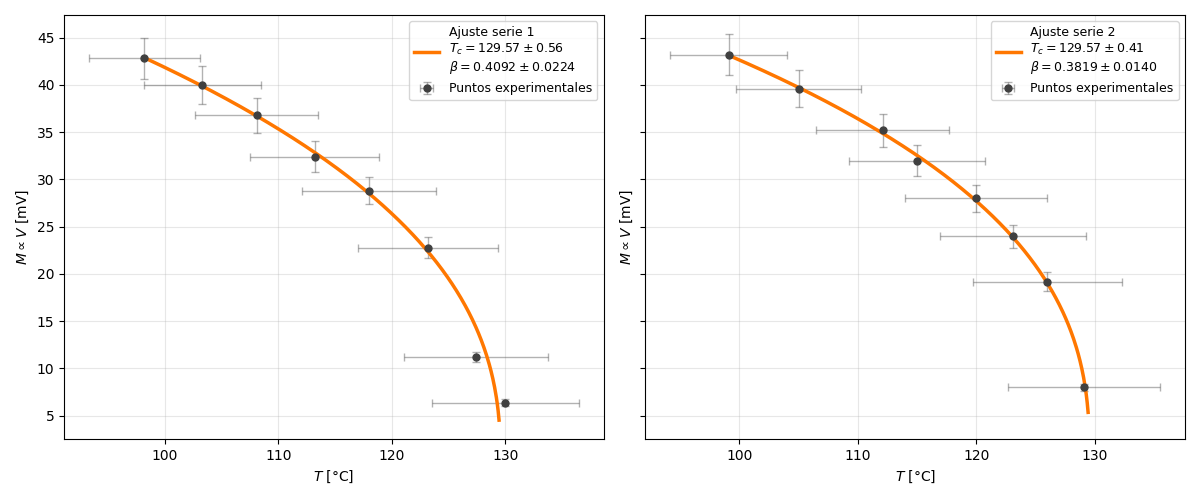
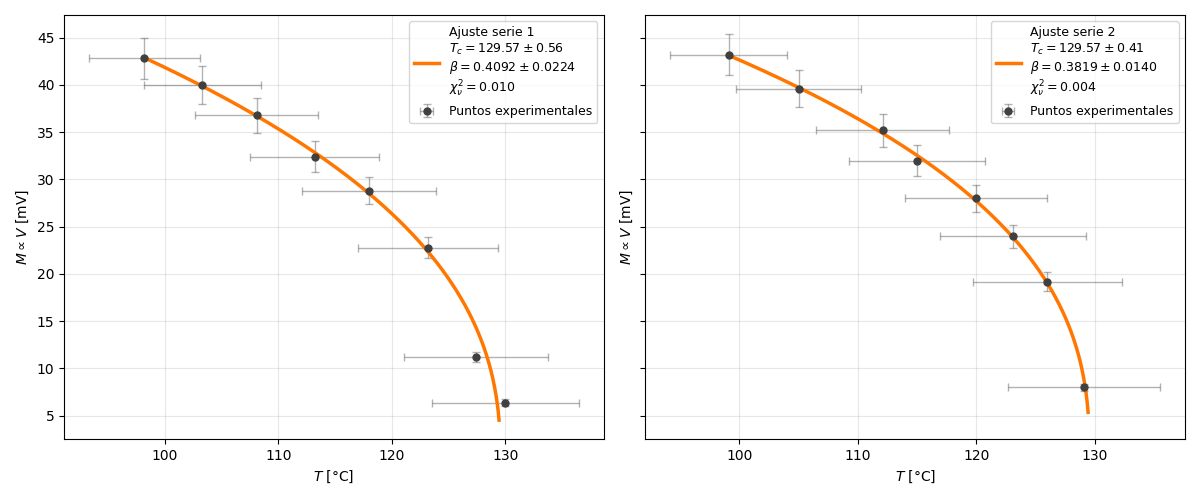
Correcciones Belén

Changed region(s): [[0.8325, 0.09, 0.9867, 0.24], [0.3392, 0.09, 0.4933, 0.24]]

diff --git a/Experimento IV, Ferromagnetico/informe 3/4Resultados y discusión.tex b/Experimento IV, Ferromagnetico/informe 3/4Resultados y discusión.tex
@@ -1,7 +1,6 @@
 \section{Resultados y discusión}
 En busca de caracterizar una ferrita mixta de Mn y Zn, se observó la transición de fase ferromagnética-paramagnética de una muestra de ferrita. En primer lugar, se registraron seis periodos correspondientes a la magnetización \(M\) y el campo coercitivo \(H\), que permiten describir el ciclo de histéresis del material. De los seis ciclos registrados para cada temperatura se realizó un promedio punto a punto, obteniendo los ciclos de histéresis presentados en \autoref{histeresis}.
-Se observa que al aumentar la temperatura el ciclo de histéresis se va cerrando, disminuyendo progresivamente la magnetización de saturación del material. En la transición de \SIrange{121}{141}{\celsius} de la muestra observamos que el ciclo de histéresis prácticamente desaparece, indicando que ha sucedido una una transición de fase del material a ser paramagnético. 
-
+Se observa que al aumentar la temperatura el ciclo de histéresis se va cerrando, disminuyendo progresivamente la magnetización de saturación del material. Resulta de interés destacar como la curva de histerésis correspondiente a la temperatura de \SI{141}{\celsius} se achata respecto a las otras. Esto se debe a que el material se encuentra próxima a su temperatura de Curie, de manera que se comporta como un paramagnético. 
 
 \begin{figure}[H]
     \centering
@@ -11,7 +10,7 @@ Se observa que al aumentar la temperatura el ciclo de histéresis se va cerrando
 \end{figure}
 % En azul 21, en naranja 61, en verde 81, en rojo 101, en violeta 121 y en rosa 141 grados Celsius
 
-Tomando dos series de datos de la magnetización $M$ en función de la temperatura $T$,se determinó la temperatura de Curie $T_c$ del material. Para esto, se utlizaron dos modelos: a temperaturas suficientemente bajas respecto a la de Curie, la magnetización del material se describe según la ley de Bloch (ecuación \eqref{eq:Bloch}), donde se fijo el exponente $n$ en 1.5, valor característico de materiales ferromagnéticos. De los ajustes presentandos en la \autoref{bloch} se obtuvó una temperatura de Curie de $T_c=$\SI{167.6(9)}{\celsius}.
+Tomando dos series de datos de la magnetización $M$ en función de la temperatura $T$,se determinó la temperatura de Curie $T_c$ del material. Para esto, se utlizaron dos modelos: a temperaturas suficientemente bajas respecto a la de Curie, la magnetización del material se describe según la ley de Bloch (ecuación \eqref{eq:Bloch}). De los ajustes presentandos en la \autoref{bloch} se obtuvó una temperatura de Curie de $T_c=167.6(9)$\SI{}{\celsius}.
 
 \begin{figure}[H]
 \centering
@@ -20,7 +19,7 @@ Tomando dos series de datos de la magnetización $M$ en función de la temperatu
 \label{bloch}
 \end{figure}
 
-Por otro lado, a temperaturas cercanas a la de Curie, la magnetización se describe mediante un comportamiento crítico derivado del modelo de Heisenberg, dado por la ecuación \eqref{eq:Heisenberg}. De los ajustes presentados en la \autoref{heisenberg} se obtuvo una temperatura de Curie de $T_c = 129.6(3)$ grados Celsius. De este analisis se obtuvo además el valor del exponente crítico $\beta = 0.38(1)$ coherente con los valores típicos esperados para $\beta$, los cuales están entre 0.33 y 0.37.
+Por otro lado, a temperaturas cercanas a la de Curie, la magnetización se describe mediante un comportamiento crítico derivado del modelo de Heisenberg, dado por la ecuación \eqref{eq:Heisenberg}. De los ajustes presentados en la \autoref{heisenberg} se obtuvo una temperatura de Curie de $T_c = 129.6(3)$ grados Celsius. De este analisis se obtuvo además el valor del exponente crítico $\beta = 0.38(1)$ coherente con los valores típicos esperados para $\beta$, los cuales están entre $0.33$ y $0.37$.
 
 La temperatura de Curie obtenida por la ley de Bloch está en el rango reportado por el fabricante para una ferrita M100,  $T_C=\geq 135$\si{\celsius}, sin embargo, el obtenido por el modelo de Heisenberg no resulta compatible. Por otro lado, la diferencia entre ellos se estima que es por el rango trabajado, ya que cada uno es válido en régimenes opuestos, siendo Bloch para temperaturas lejanas a la de Curie y Heiseinberg cercanas a la misma. Por lo que se recomienda tomar más medidas en las regiones de interés.
 

diff --git a/Experimento IV, Ferromagnetico/Codigo/funciones.py b/Experimento IV, Ferromagnetico/Codigo/funciones.py
@@ -109,7 +109,7 @@ def graficarAjusteTc(
 
     A, Tc, beta = resultado.beta
     sA, sTc, sBeta = resultado.sd_beta
-
+    chi2_red = resultado.res_var
     T = serie["T"].values
     Ch2 = serie["Ch2"].values
 
@@ -144,6 +144,8 @@ def graficarAjusteTc(
         rf"$T_c={Tc:.2f}\pm{sTc:.2f}$"
         "\n"
         rf"$\beta={beta:.4f}\pm{sBeta:.4f}$"
+        "\n"
+        rf"$\chi^2_\nu={chi2_red:.3f}$"
     )
 
     ax.plot(
@@ -181,6 +183,8 @@ def graficarAjusteBlochFijo(
     A, Tc = resultado.beta
     sA, sTc = resultado.sd_beta
 
+    chi2_red = resultado.res_var
+
     T = serie["T"].values
     Ch2 = serie["Ch2"].values
 
@@ -215,6 +219,8 @@ def graficarAjusteBlochFijo(
         rf"$T_c={Tc:.2f}\pm{sTc:.2f}$"
         "\n"
         rf"$n=1.5$ fijo"
+        "\n"
+        rf"$\chi^2_\nu={chi2_red:.3f}$"
     )
 
     ax.plot(
@@ -526,7 +532,7 @@ def graficar_histeresis(*resultados):
 
     plt.xlabel("$H \propto V [mV]$")
     plt.ylabel("$M \propto V [mV]$")
-    plt.title("Ciclos de histéresis promediados")
+    
     plt.grid(True)
     plt.legend()
 
@@ -551,7 +557,6 @@ def graficar_histeresis_error(*resultados):
 
     plt.xlabel("CH1 (∝ H)")
     plt.ylabel("CH2 (∝ M)")
-    plt.title("Ciclos de histéresis promediados")
     plt.grid(True)
     plt.legend()
 
